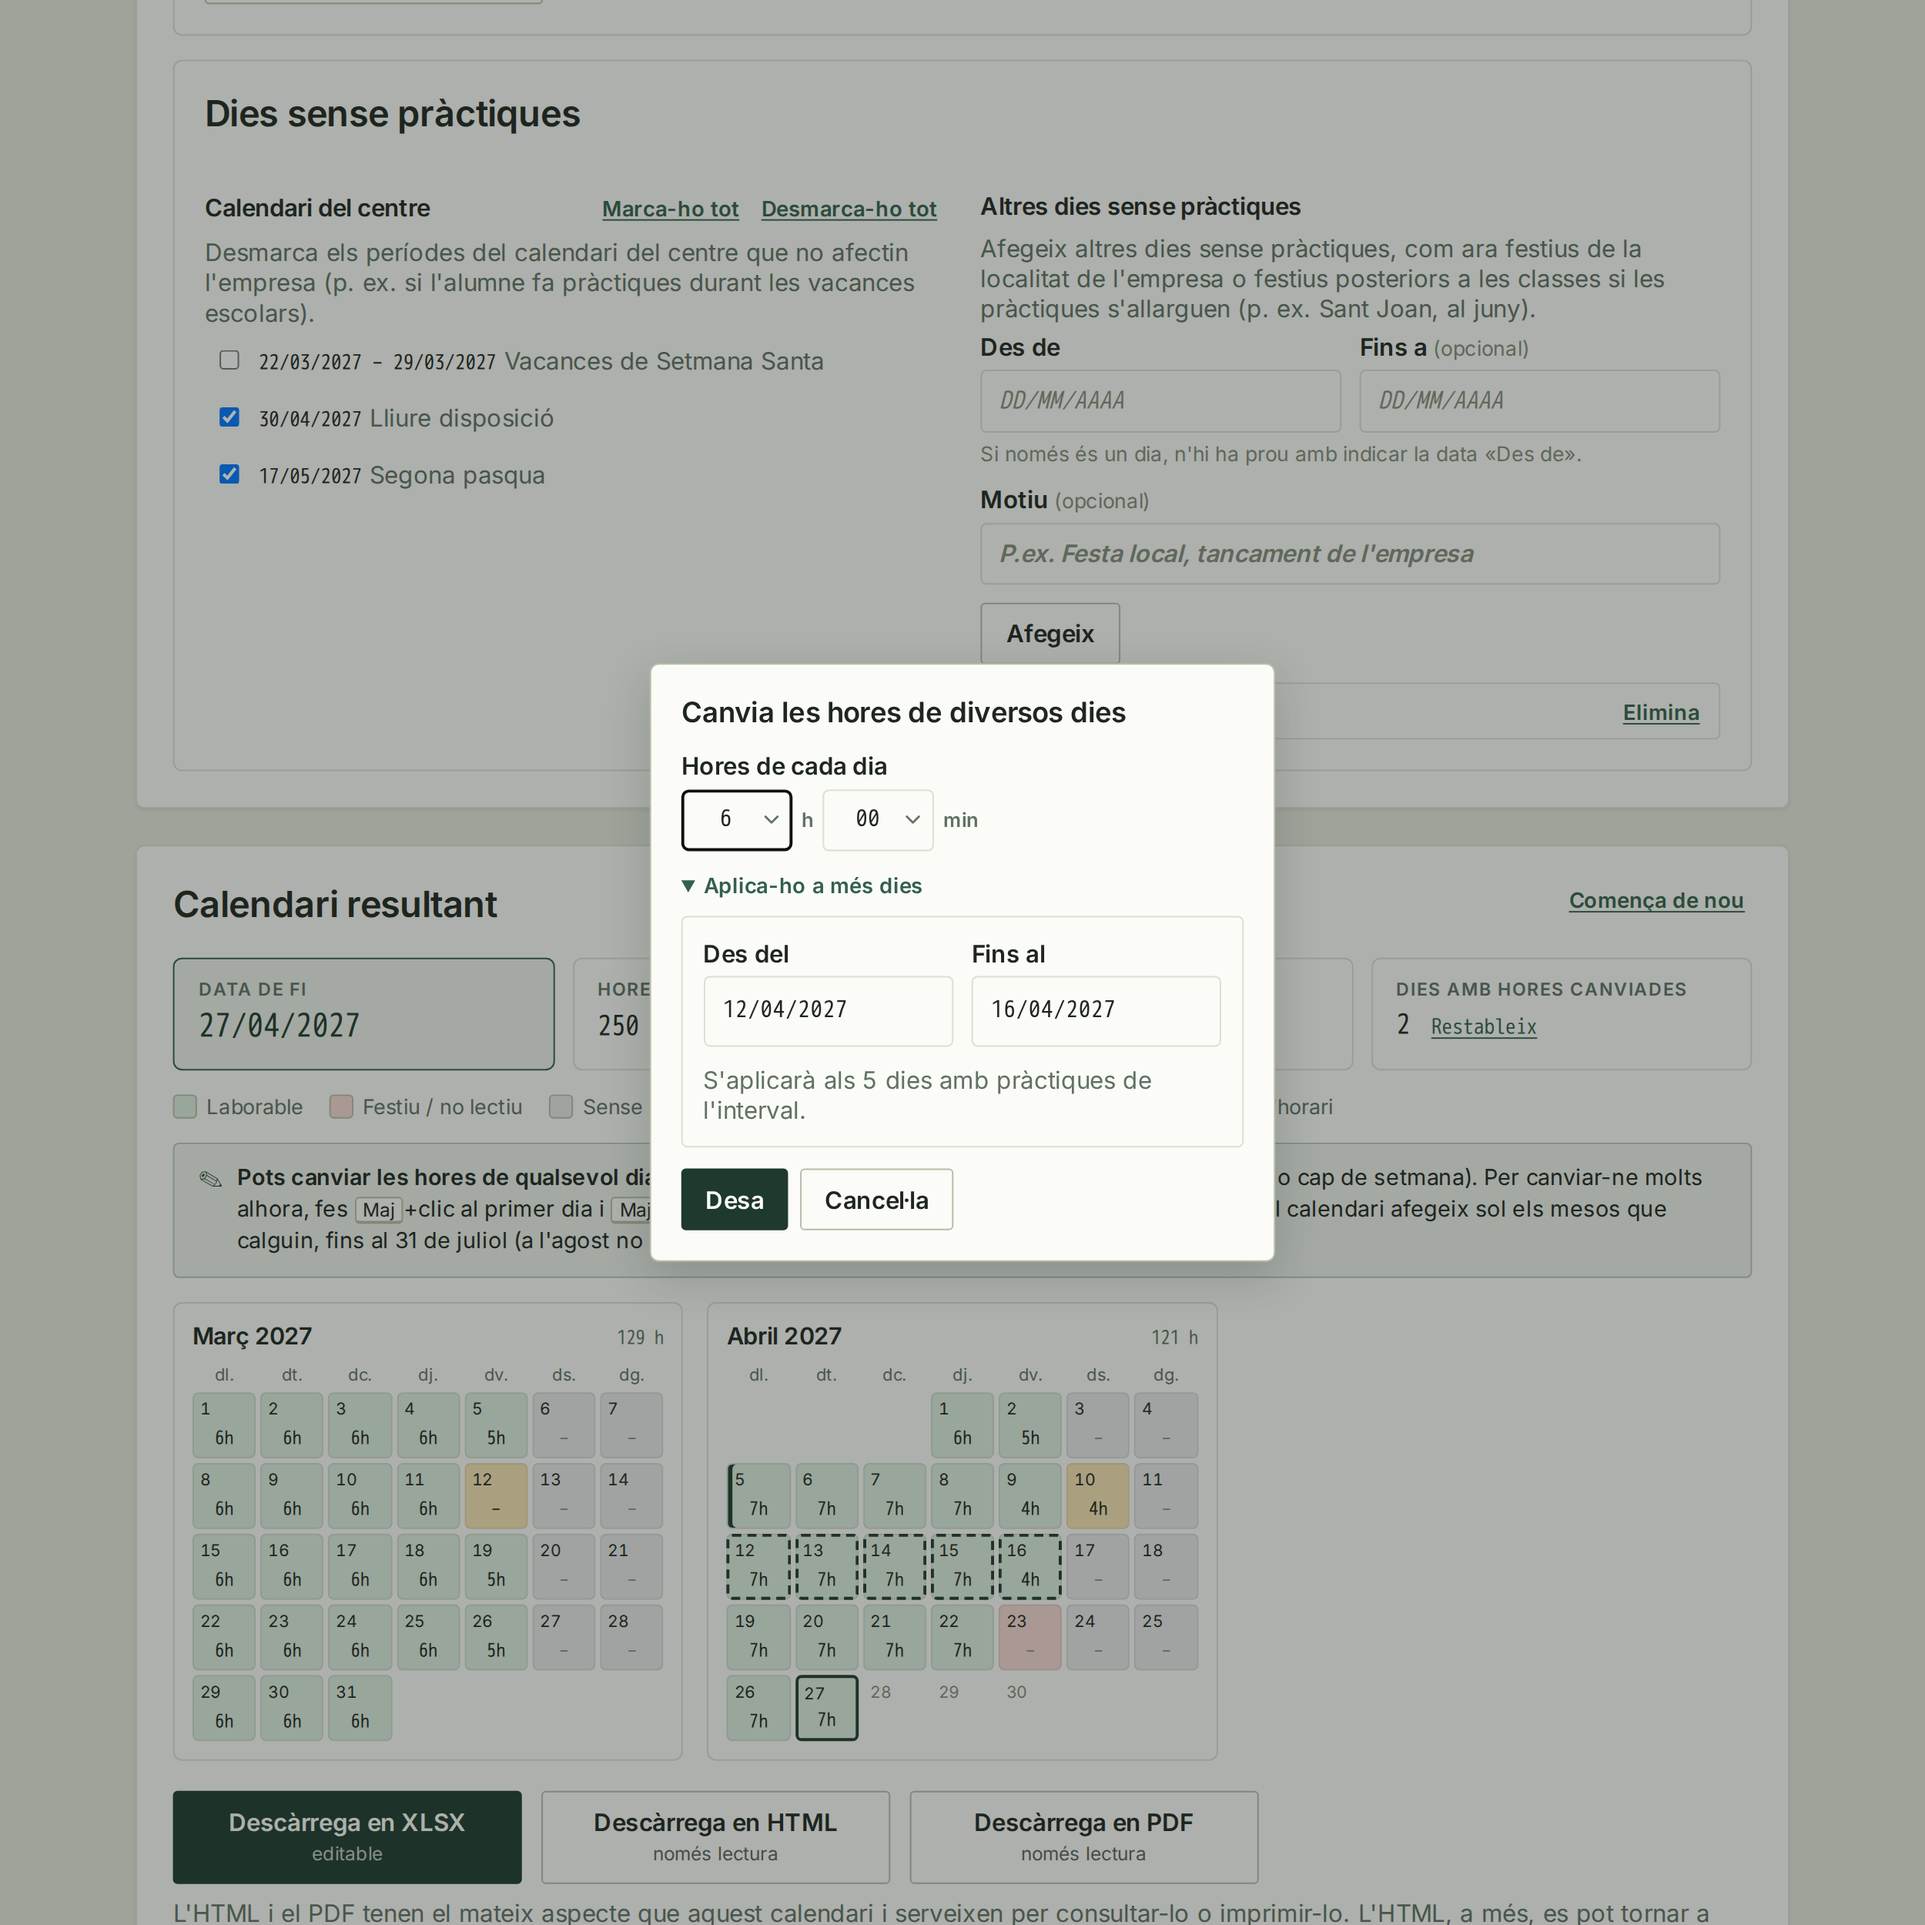
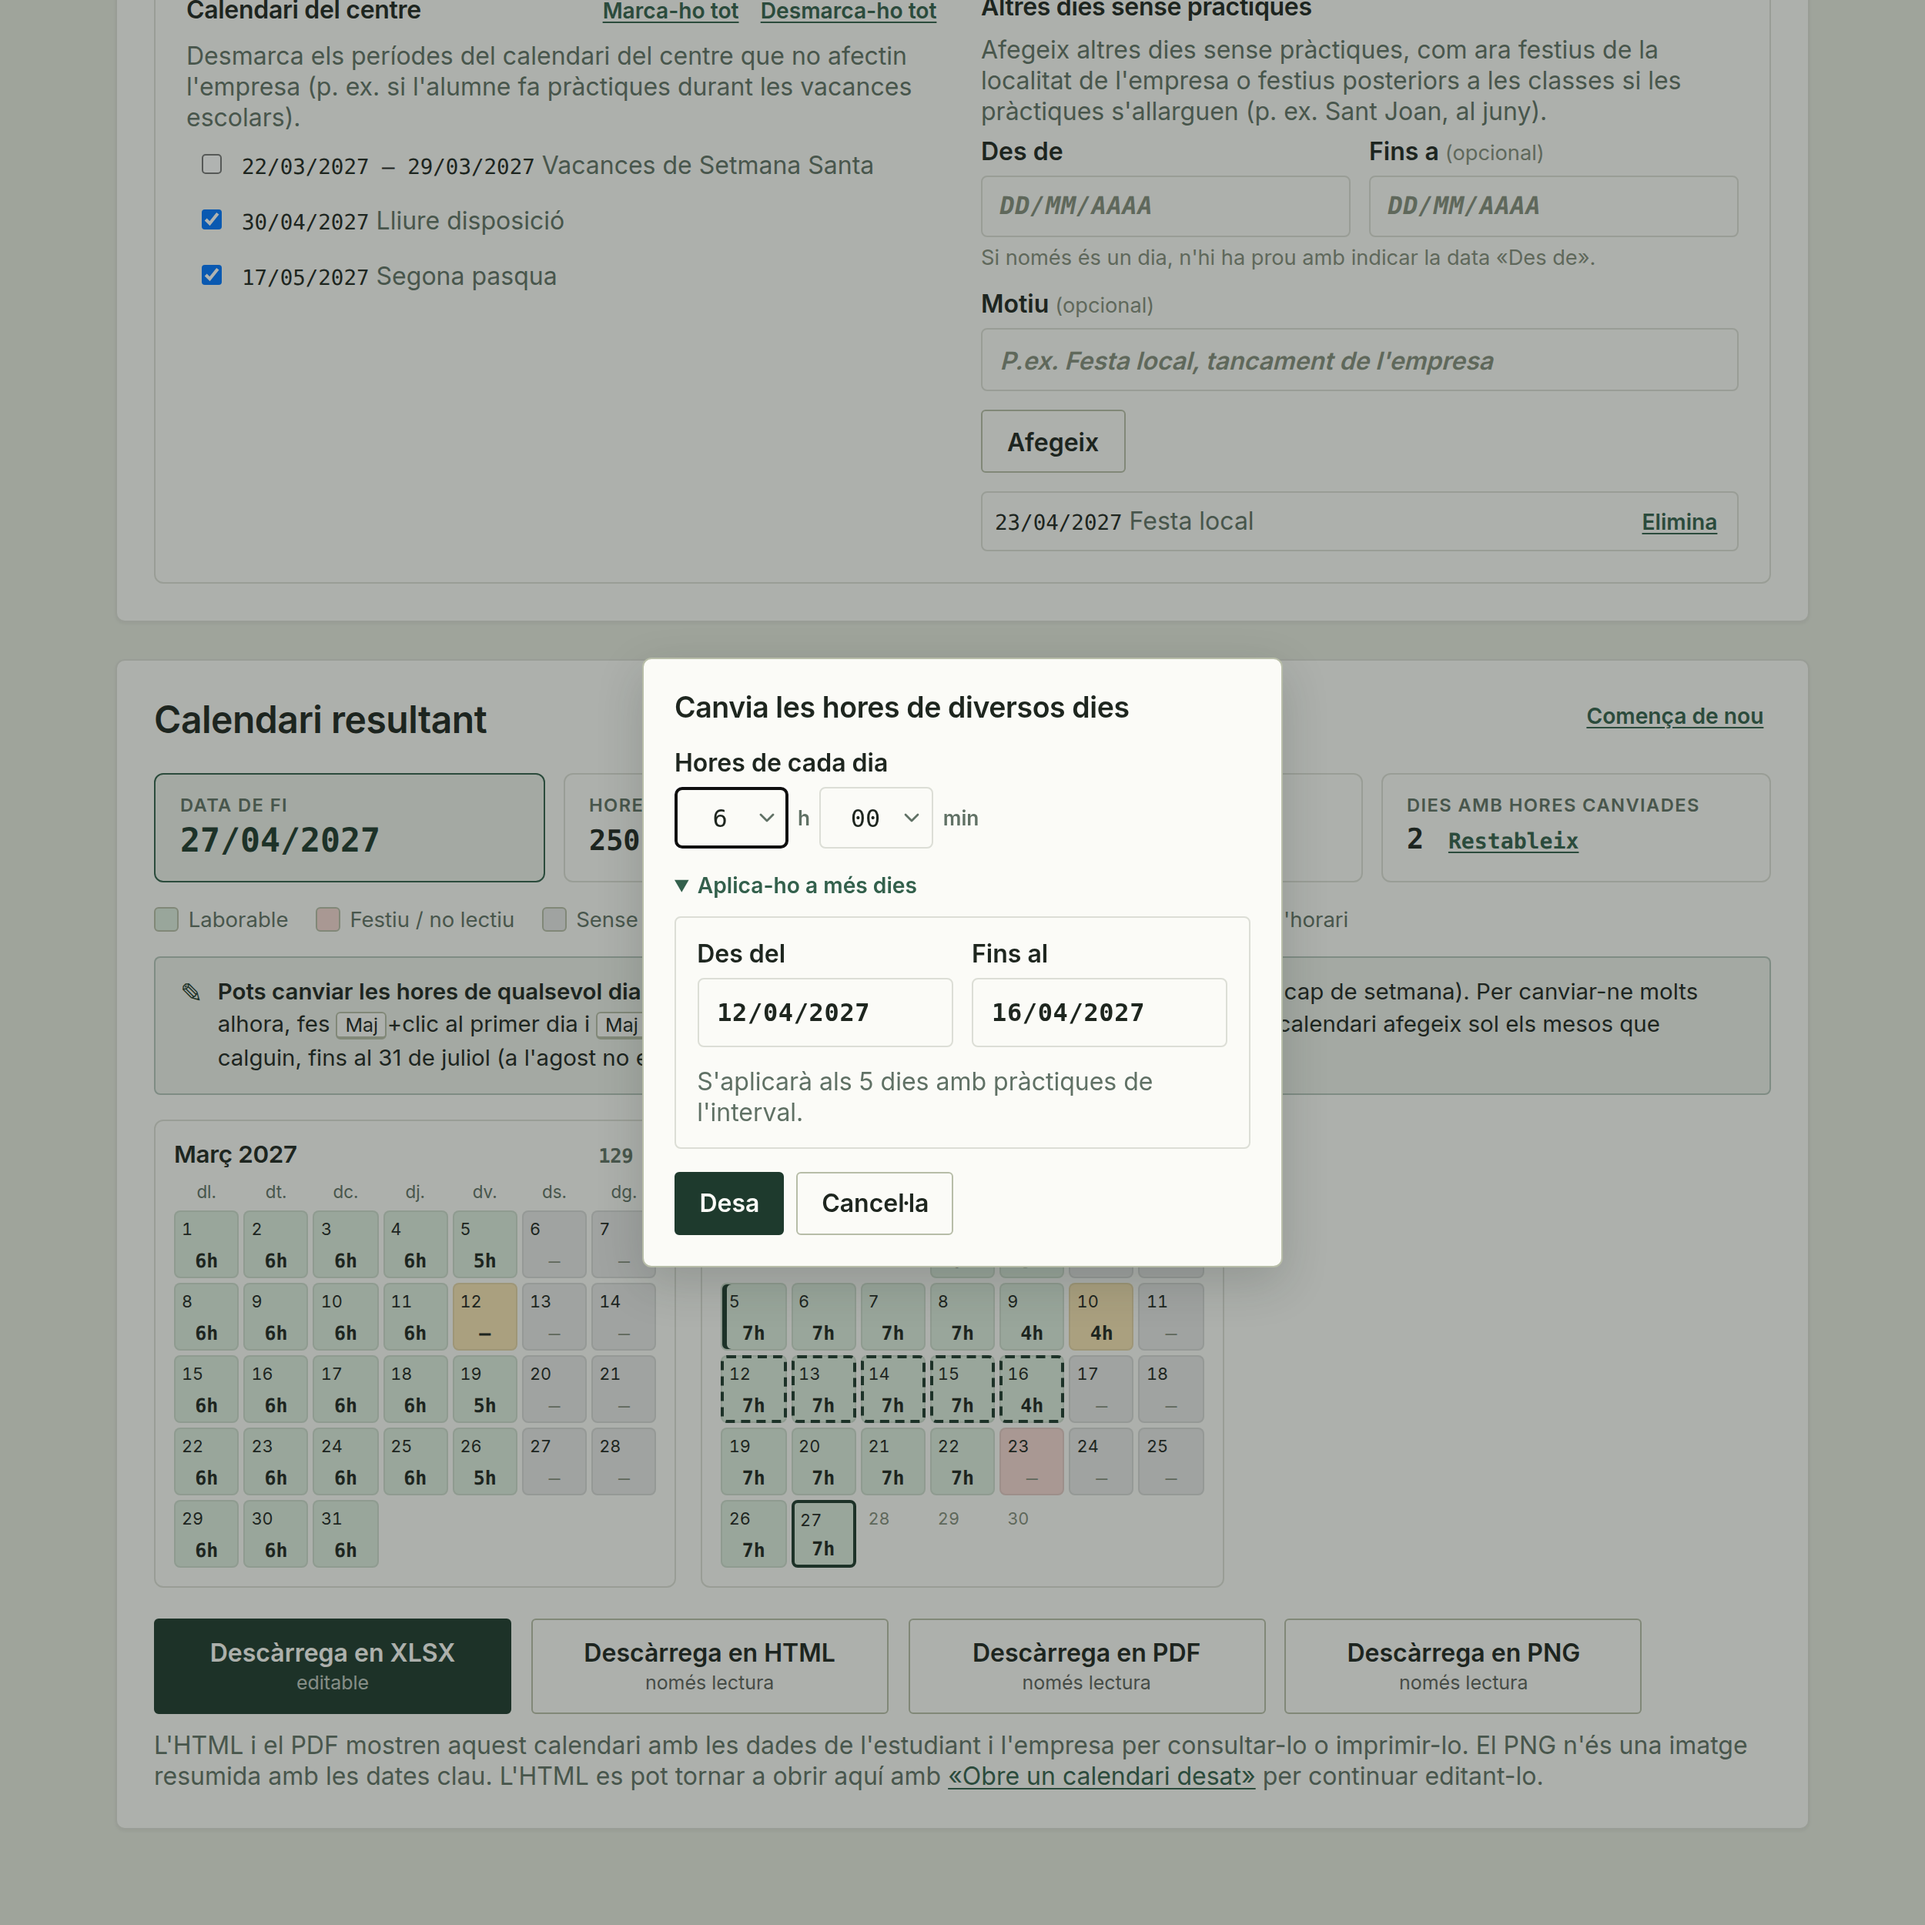
docs: show the PNG download and the new export note in the internship screenshots

diff --git a/docs/screenshots/README.md b/docs/screenshots/README.md
@@ -20,7 +20,7 @@ The files in this folder document the two public tools. For the curriculum plann
 | `tempo-step-2-parallel.png` | Step 2: distribute RAs across parallel blocks | Supporting advanced-mode example |
 | `tempo-step-3-spreadsheet_2.png` | Result: secondary workbook view | Kept for detailed documentation |
 | `tempo-practiques-step-1-formulari.png` | Internship planner: a saved calendar just opened with «Obre un calendari desat» (start date, total hours and a weekly schedule split into two periods) | Internship walkthrough |
-| `tempo-practiques-step-2-calendari.png` | Internship planner: days without internship, the resulting calendar, the XLSX, HTML and PDF download buttons and the note on reopening the HTML | Internship walkthrough |
+| `tempo-practiques-step-2-calendari.png` | Internship planner: days without internship, the resulting calendar, the XLSX, HTML, PDF and PNG download buttons and the note on what each read-only format is for and on reopening the HTML | Internship walkthrough |
 | `tempo-practiques-step-3-editor-dia.png` | Internship planner: changing the hours of a range of days picked with Shift+click | Internship walkthrough |
 
 `step-3` describes the exported result, not a third screen in the application: the teacher interface itself has two steps.

diff --git a/README.md b/README.md
@@ -99,7 +99,7 @@ Indica la data d'inici, les hores totals (amb minuts) i les hores de cada dia de
 
 Els períodes del calendari del centre surten marcats i es poden desmarcar si no afecten l'empresa (p. ex. pràctiques durant les vacances escolars). També s'hi poden afegir altres dies, com festius locals de l'empresa o festius posteriors a les classes. Si les pràctiques van més enllà dels dies no lectius configurats al calendari del centre, un avís en aquesta mateixa secció recorda afegir-hi els festius posteriors. El calendari es recalcula en directe i mostra la data de fi, les hores planificades i els dies amb pràctiques; el darrer dia només rep les hores que falten. Quan hi ha diversos períodes, el primer dia de cadascun queda marcat al calendari.
 
-![Dies sense pràctiques, calendari resultant amb la data de fi, botons de descàrrega en XLSX, HTML i PDF i l'avís que l'HTML es pot tornar a obrir](docs/screenshots/tempo-practiques-step-2-calendari.png)
+![Dies sense pràctiques, calendari resultant amb la data de fi, botons de descàrrega en XLSX, HTML, PDF i PNG i la nota que explica cada format i que l'HTML es pot tornar a obrir](docs/screenshots/tempo-practiques-step-2-calendari.png)
 
 ### 3. Ajusta les hores d'un dia o de diversos dies
 

diff --git a/README.en.md b/README.en.md
@@ -99,7 +99,7 @@ Enter the start date, total hours (minutes supported) and the hours for each wee
 
 The school calendar's periods are pre-selected and can be unticked when they do not affect the company (e.g. an internship that runs through school holidays). Other days can be added too, such as the company's local holidays or holidays after classes end. If the internship runs past the non-teaching days configured in the school calendar, a warning in this same section reminds users to add the later holidays. The calendar recalculates live and shows the end date, planned hours and internship days; the last day only receives the hours still needed. When there are several periods, the first day of each one is marked on the calendar.
 
-![Days without internship, the resulting calendar with its end date, the XLSX, HTML and PDF download buttons and the note that the HTML can be opened again](docs/screenshots/tempo-practiques-step-2-calendari.png)
+![Days without internship, the resulting calendar with its end date, the XLSX, HTML, PDF and PNG download buttons and the note that explains each format and that the HTML can be opened again](docs/screenshots/tempo-practiques-step-2-calendari.png)
 
 ### 3. Adjust The Hours Of One Or Several Days
 
